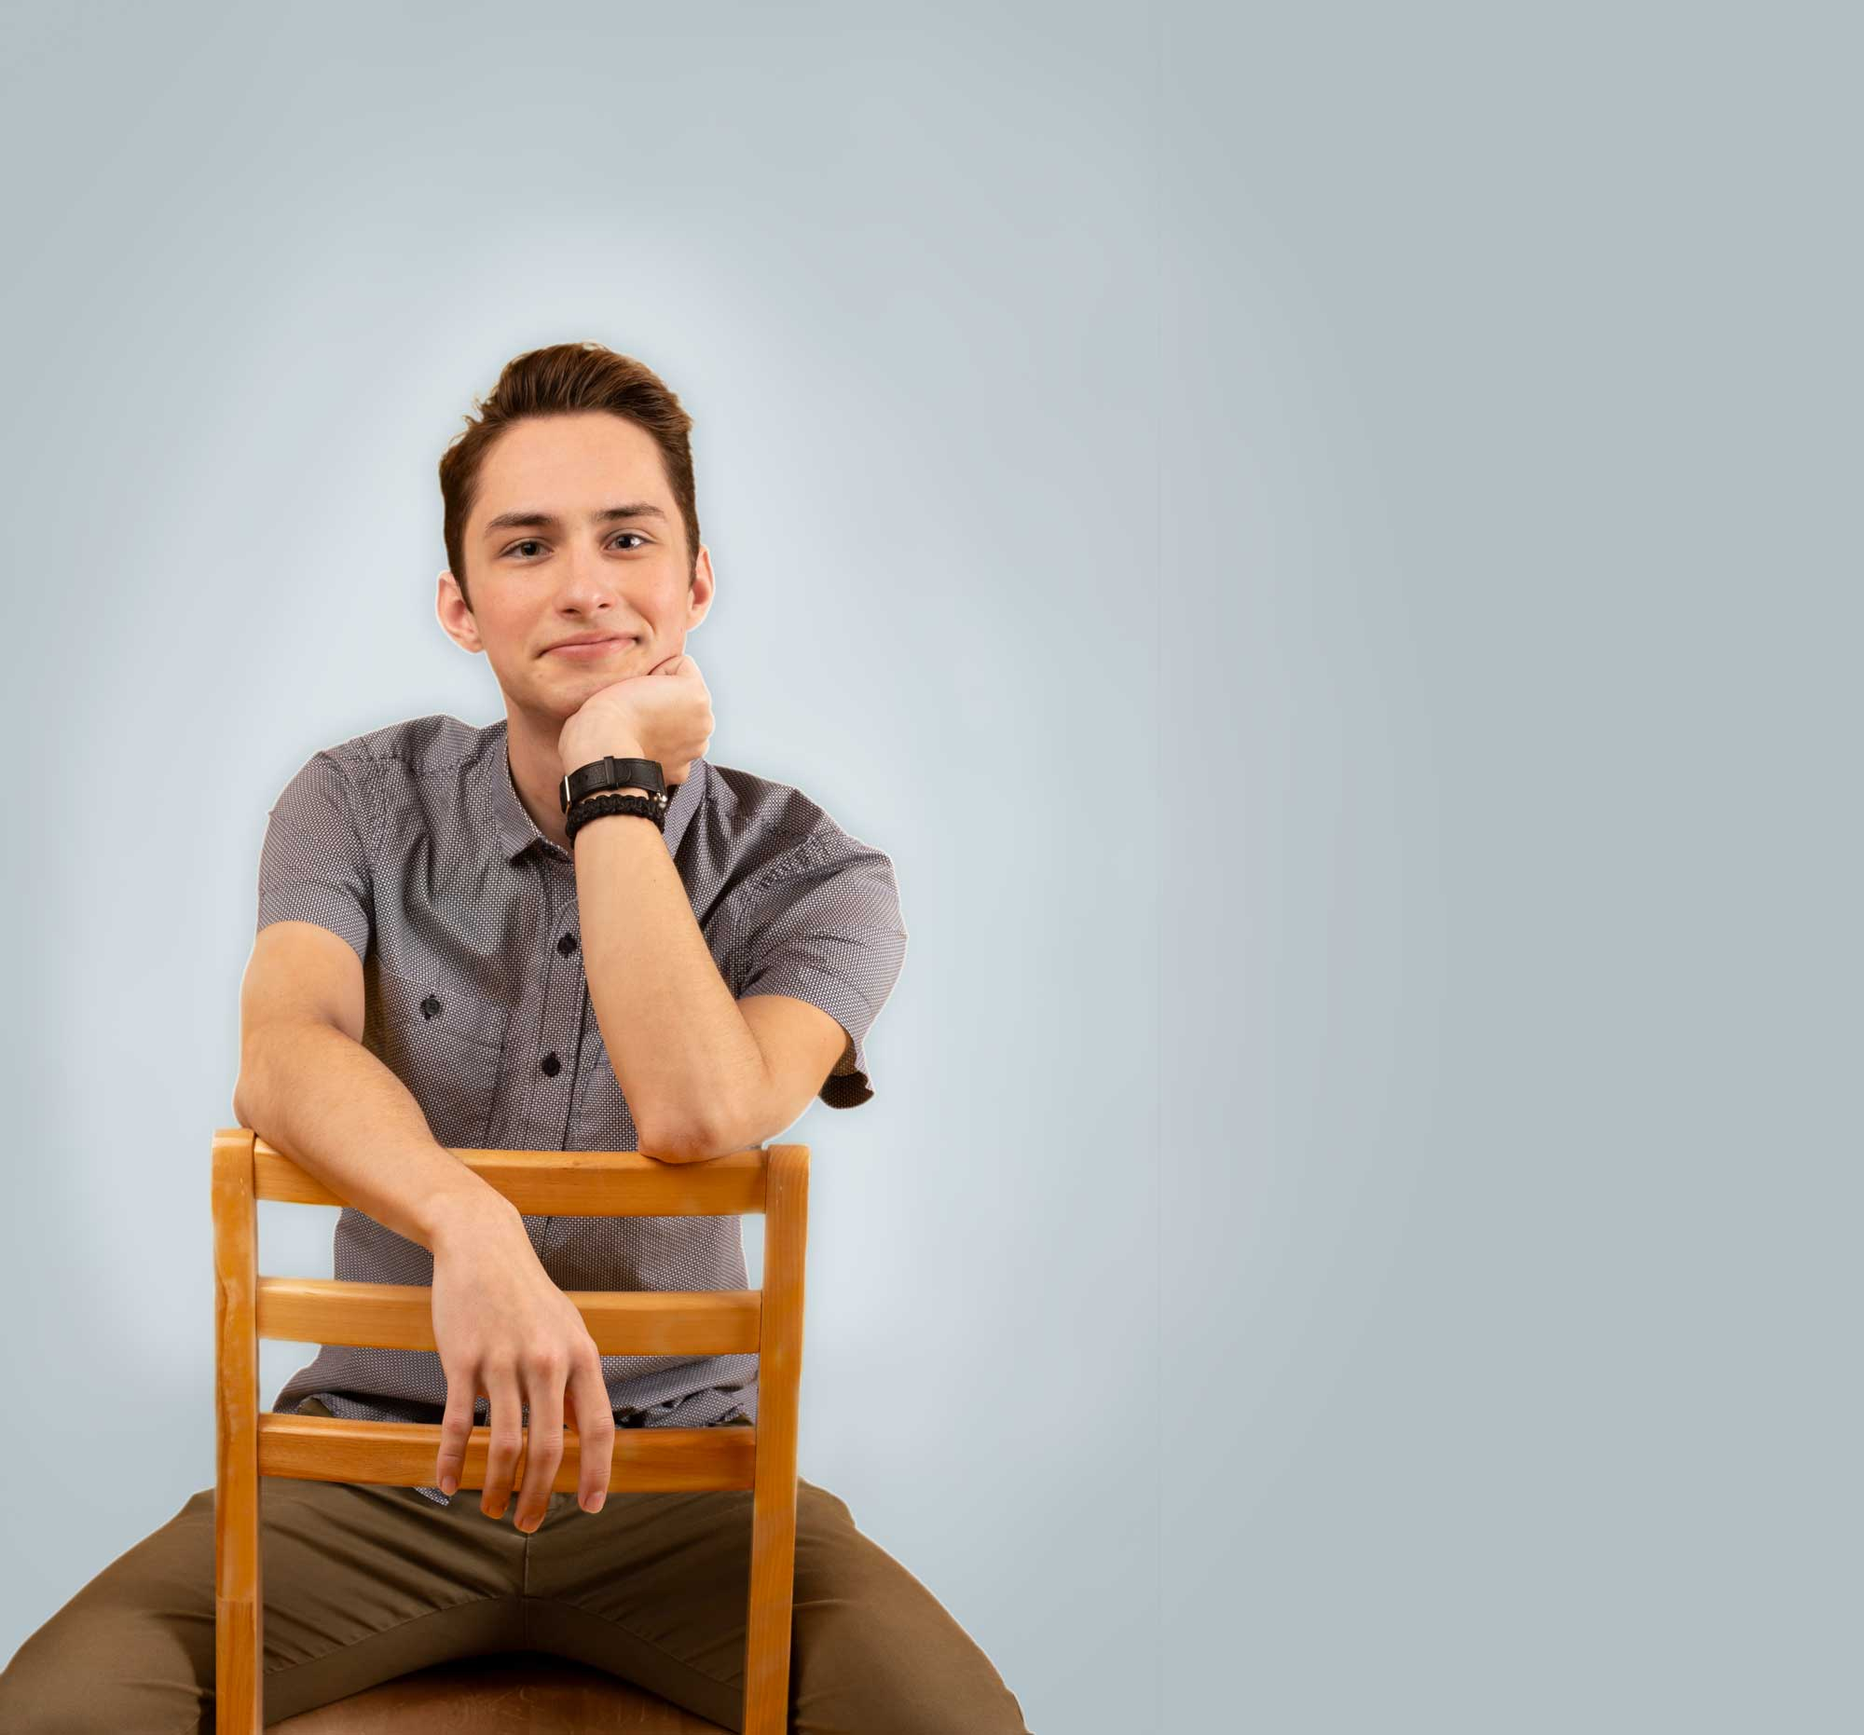
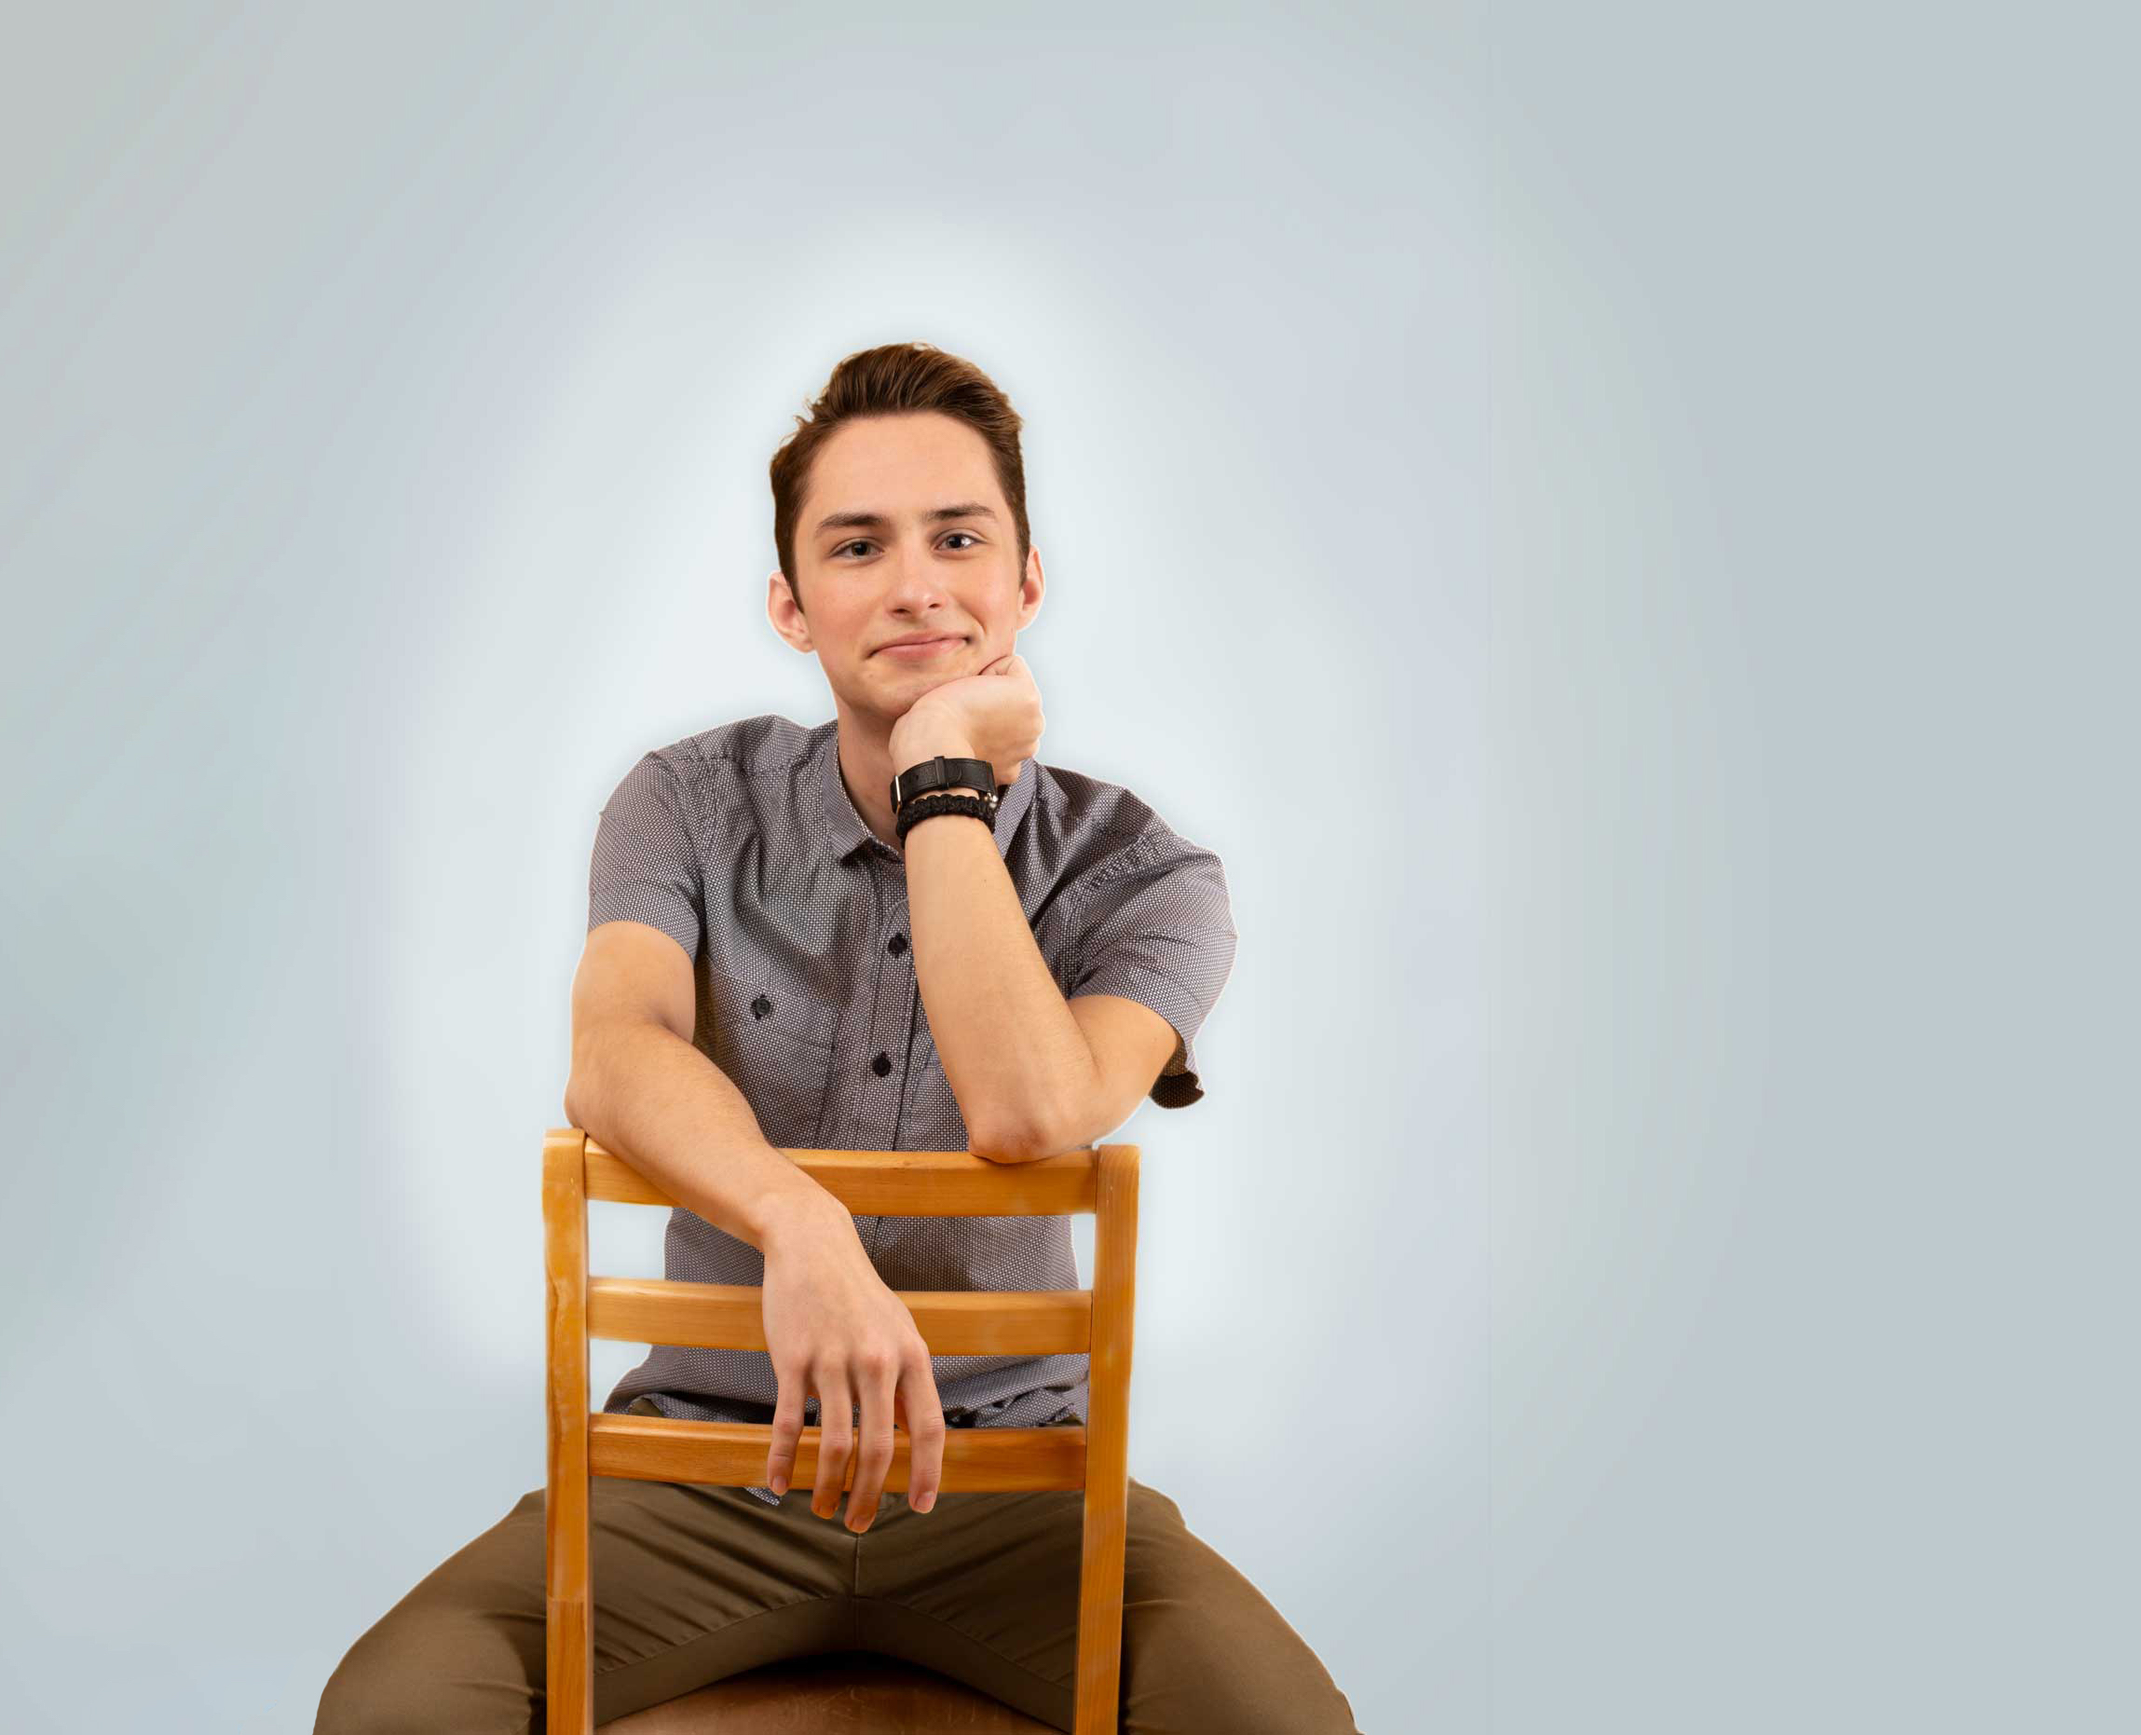
Fixed overlapping text and photo

diff --git a/src/presets.js b/src/presets.js
@@ -36,8 +36,8 @@ import PoolBlocks from './images/pool-generic.jpg';
 import PortraitPhoto from './images/_DSC3842-Processed.jpg';
 import Sunset from './images/sunset.jpg';
 // import ProductPhoto from './images/_DSC0058-Processed.jpg';
-import AboutJPG1 from './images/_DSC8963-bg-16x10.jpg';
-import AboutJPG2 from './images/_DSC8819-bg-16x10.jpg';
+import AboutJPG1 from './images/_DSC8963-bg.jpg';
+import AboutJPG2 from './images/_DSC8819-bg.jpg';
 
 const site = {
   pages: {
